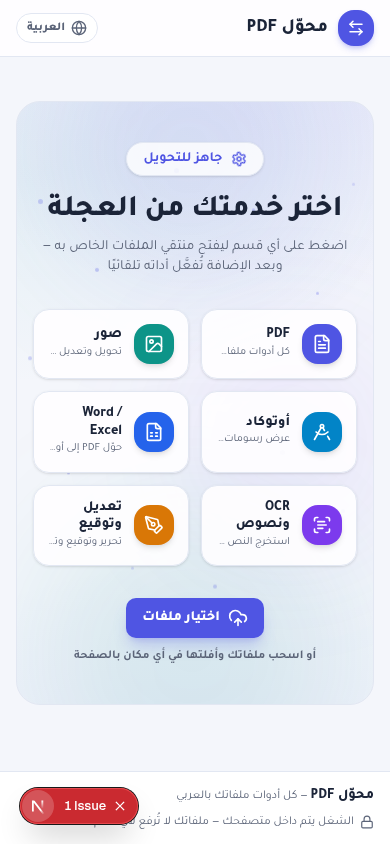
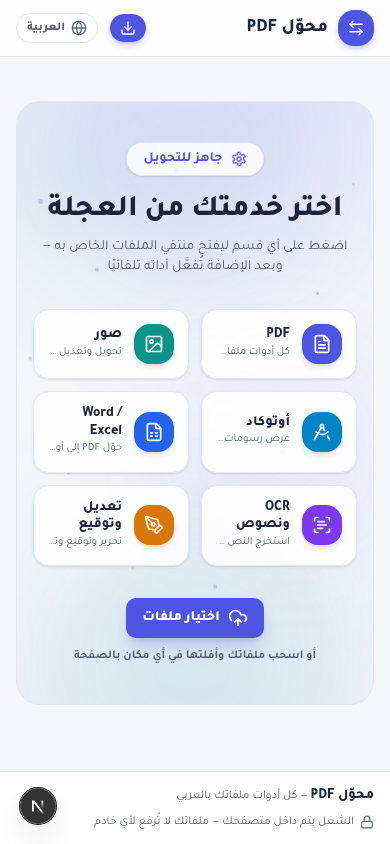
إصلاح خطأ hydration النهائي: تقريب إحداثيات polar() لمنزلتين — السيرفر والمتصفح ينتجان الأرقام نفسها (Task 50) + بذر لغة localStorage في حزم E2E الثلاث بدل الكوكي الميت

Changed region(s): [[0.0308, 0.9242, 0.3692, 0.9858], [0.2769, 0.0, 0.3692, 0.0616]]

diff --git a/src/components/pdf-station/service-wheel.tsx b/src/components/pdf-station/service-wheel.tsx
@@ -109,10 +109,13 @@ const R_LABEL = 158;
 const SEG = 360 / WHEEL_SERVICES.length; // 60° لكل قسم
 const GAP = 1.6; // فجوة بين القطاعات
 
-/** إحداثيات قطبية — 0° أعلى منتصفًا والاتجاه مع عقارب الساعة */
+/** إحداثيات قطبية — 0° أعلى منتصفًا والاتجاه مع عقارب الساعة
+    التقريب لمنزلتين إلزامي: نتائج trig تختلف بفروق 1e-13 بين محرّك السيرفر ومحرّك المتصفح
+    فترفض React مطابقة HTML المُسرَّد بالترطيب (خطأ hydration) — التقريب يوحّد الرقمين نهائيًا */
 function polar(r: number, deg: number) {
   const a = ((deg - 90) * Math.PI) / 180;
-  return { x: CX + r * Math.cos(a), y: CY + r * Math.sin(a) };
+  const q = (n: number) => Math.round(n * 100) / 100;
+  return { x: q(CX + r * Math.cos(a)), y: q(CY + r * Math.sin(a)) };
 }
 
 /** مسار قطاع حلقي من زاويتين — يُستخدم للـ SVG ولـ clip-path معًا */

diff --git a/worklog.md b/worklog.md
@@ -964,3 +964,22 @@ Work Log:
 Stage Summary:
 - كل قسم من العجلة بقى «غرفة مستقلة» بالحرف: اختيار «صور» يفتح منتقيًا يقبل الصور فقط ويظل مفلترًا مهما أضفت ملفات، والسحب والإفلات يفحص كل ملف فيرفض الغريب بتوست يشرح القسم وطرق الخروج، وشريط الأدوات يعرض أدوات القسم وحدها (صور=6، PDF=18، أوتوكاد=العارض، أوفيس=Word+Excel، OCR=أداتان، تعديل=المحرر) — وشارة ملونة باسم القسم فوق مساحة العمل تذكّر المستخدم بوضعه وتمنحه زر «كل الأدوات» يرجعه للوضع الكامل لحظيًا، بينما الزر العام وروابط ؟op= والدخول المباشر بلا قسم يظلون بالسلوك القديم تمامًا — إضافة قسم جديد معدا سلفًا: سطر في WHEEL_SERVICES + 4 مفاتيح قواميس.
 - الملفات: service-wheel.tsx (ServicePick kinds+tools + fileFitsSector + SVC_COLOR/SVC_ICON مُصدَّرة + onGeneric) · workbench.tsx (sector حالة + accept مشتق + ingestFiles بوابة موحدة + SectorChip + فلترة TOOLBAR + تصفير عند فراغ المساحة) · i18n×3 (+4 مفاتيح) · scripts/e2e_sector_filter.sh جديد؛ لقطات sector_01-04.
+
+---
+Task ID: 50
+Agent: Main Agent (Z.ai)
+Task: بلاغ المستخدم بخطأ Console — «A tree hydrated but some attributes of the server rendered HTML didn't match the client properties» والأثر يتتبع عناصر <line> داخل GearRing في service-wheel.tsx (إحداثيات شرطات الترس تختلف بمنزلتين عشريتين بين السيرفر والمتصفح).
+
+Work Log:
+- **التشخيص الجذري**: polar() كانت تُمرّر أرقام trig الخام (Math.cos/sin) للـ SVG — سيرفر Node ومتصفح المستخدم ينتجان فروقًا ~1e-13 في آخر خانتين (61.0319176357273 مقابل 61.03191763572727) فترفض React مطابقة HTML المُسرَّد بالترطيب. ملاحظة: سطر cad-viewer.tsx:390 في الـ stack مجرّد مرشّح الضجيج الذي يعيد إصدار console.error — ليس مصدرًا. ملاحظة 2: ملاحظة Task 48 السابقة «الـ hydration ليس من العجلة» كانت خاطئة — الأثر الملتقط بالمتصفح يُظهر خطوط GearRing صراحة.
+- **الإصلاح (نقطة واحدة)**: polar() تقرب لمنزلتين q(n)=Math.round(n*100)/100 داخل الدالة نفسها — يُصلح آنًا: 60 شرطة ترس + مواضع تسميات القطاعات (left/top خامًا كذلك) + sectorPath (كان محميًا بـ toFixed(2)) — كل مستهلكي polar صاروا حتميين. مع تعليق يشرح السبب كي لا يُزال التقريب لاحقًا «تنظيفًا».
+- **مسح شامل لمصادر ترطيب أخرى**: كل Math.random/Date.now/atan2 في src/ هي في مسارات بعد التركيب (كنفس/محرر/CAD/API) — لا شيء في مسار SSR سوى polar. الجزيئات ثابتة سلفًا (Task 48).
+- **حادثة E2E الموازية**: الحزم الثلاث العجلة/العزل/القص-الحر انهارت 33/40 بأسماء إنجليزية — السبب: detectLocale (i18n/core.ts) يقرأ localStorage فقط ولا يقرأ كوكي mahatta-locale الذي تبذره السكربتات القديمة؛ بروفايل المتصفح حفظ en من كشف en-US في جلسة يدوية فانقلبت الواجهة وكسرت aria-labels العربية (إزالة الملف) وانهارت السلاسل. المستخدم الحقيقي غير متأثر.
+- **ترقيع السكربتات الثلاثة** (e2e_service_wheel.sh · e2e_sector_filter.sh · e2e_crop_free.sh): استبدال الكوكي الميت ببذر localStorage.setItem('mahatta-locale','ar') بنفس نمط الحزم الأحدث (metadata/dwg_final/pwa2) + إصلاح أمر viewport المفرد إلى set viewport في حزمة العجلة + تحديث تعليق القسم 13: خط الأساس صار hydration=0 صرامة كاملة بدل التسامح ≤12.
+- **التحقق**: تقييم مباشر بالمتصفح — 60 شرطة كلها ≤ منزلتين عشريتين (decimalsOk=true) وكونسول تحميل نظيف تمامًا؛ ثم البطارية كاملة: e2e_service_wheel.sh **40/40** · e2e_sector_filter.sh **37/37** · e2e_crop_free.sh **25/25** · e2e_crop_kbd.sh **32/32** = 134 فحصًا صفر إخفاق وhydration=0 في كل التحميلات. ملاحظة تشغيل: أول تشغيلة بعد تعديل المصدر فشلت 33/7 (إعادة ترجمة Turbopack منتصف الحزمة) — التشغيلة التالية والثالثة خضراءان كاملين.
+- tsc: صفر أخطاء src/ · eslint على الملفات المعدلة: نظيف · اللقطات الم regenerated مرفقة (wheel/sector/crop).
+- **التزام محلي**: يحتاج export GH=<token> ثم push (الرمز لا يُخزَّن في البيئة).
+
+Stage Summary:
+- خطأ الترطيب الموثق منذ Task 48 («خطأ hydration واحد لكل تحميل») انتهى نهائيًا: كل إحداثيات العجلة القطبية مقرّبة لمنزلتين فالسيرفر والمتصفح ينتجان السلاسل نفسها حرفيًا — والكونسول صار صفر أخطاء hydration في كل بدايات باردة البطارية (134 فحصًا). أُصلحت كذلك حزم E2E الثلاث القديمة من الاعتماد على كوكي لغة ميت بدل localStorage، وصار خط الأساس في فحص الكونسول صارمًا (0 مطلوب) بدل التسامح مع خطأ/تحميل.
+- الملفات: service-wheel.tsx (تقريب polar) · scripts/e2e_service_wheel.sh · scripts/e2e_sector_filter.sh · scripts/e2e_crop_free.sh (بذر localStorage + set viewport + تعليق hydration) · لقطات regenerated.
